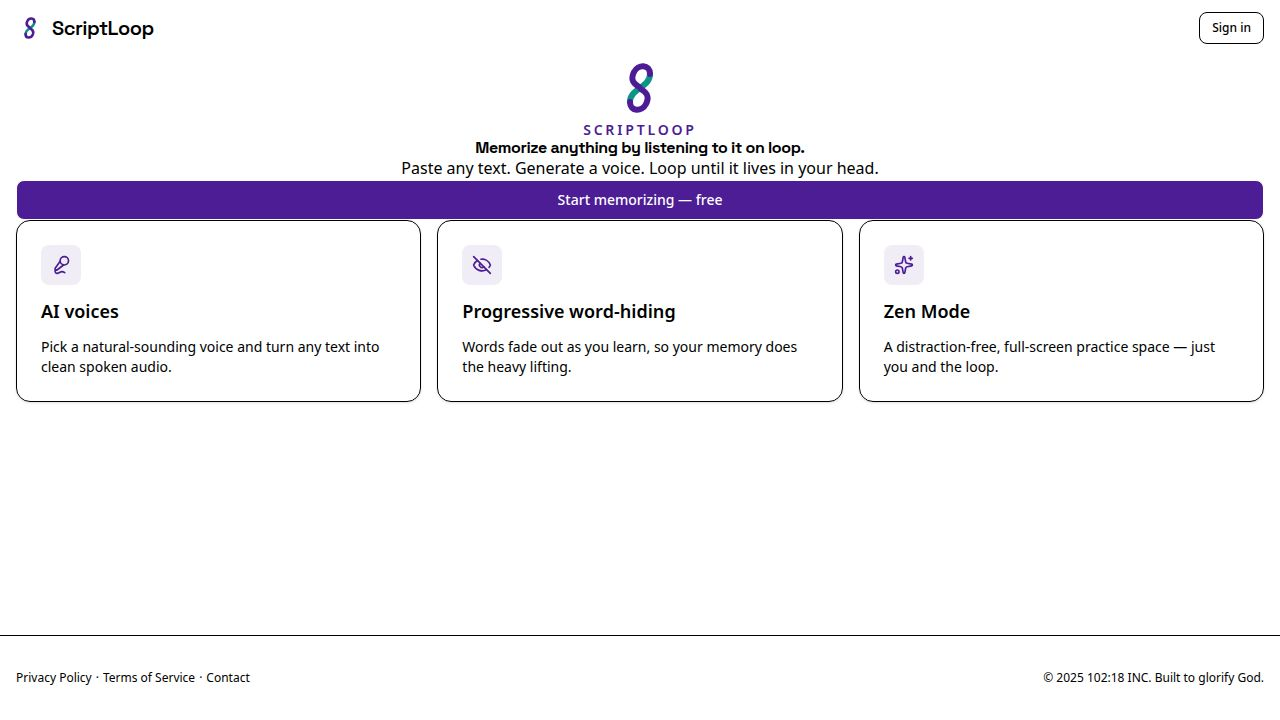
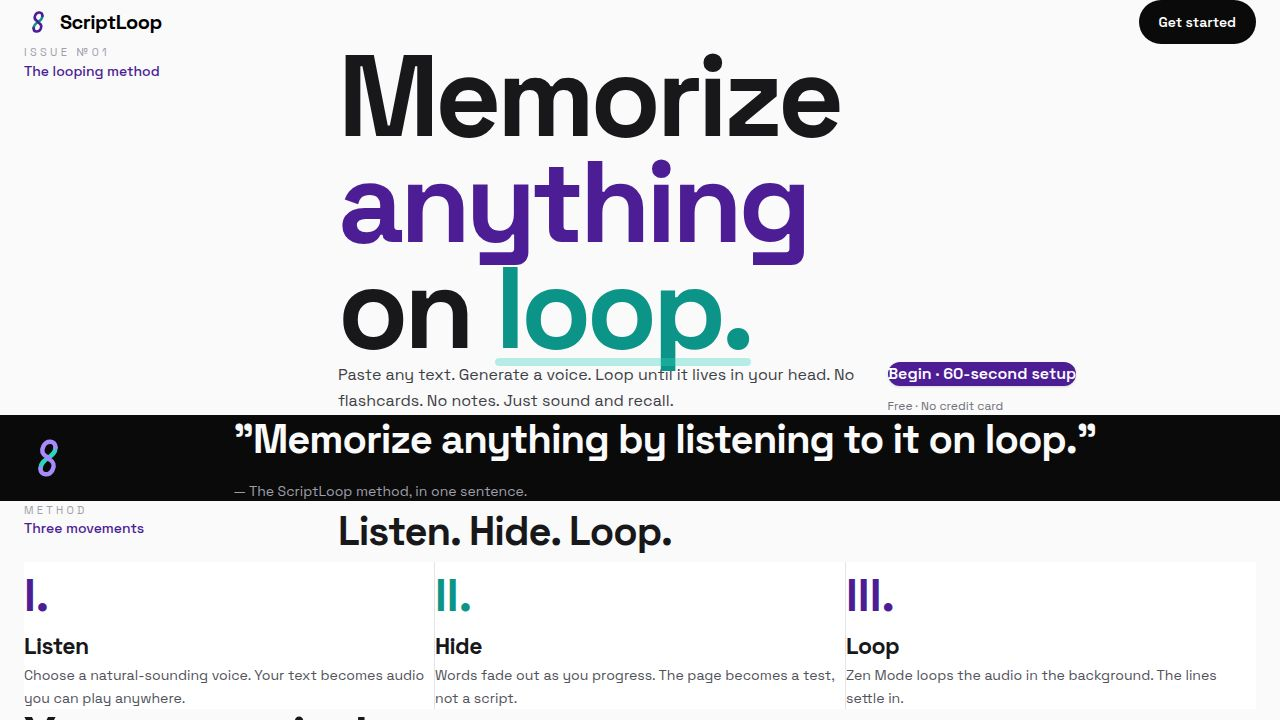
Update mockups and add new assets for improved interface presentation
Modify mockup component imports and add new image assets.

Replit-Commit-Author: Agent
Replit-Commit-Session-Id: b05ca157-8bab-4980-8663-b2cbb9ad39b6
Replit-Commit-Checkpoint-Type: full_checkpoint
Replit-Commit-Event-Id: 28ddc13a-ec4e-42e4-ab17-1a7f88cad7d2
Replit-Commit-Screenshot-Url: https://storage.googleapis.com/screenshot-production-us-central1/aa8b9d02-3ed9-4402-acee-3606e907f08d/b05ca157-8bab-4980-8663-b2cbb9ad39b6/dmYK0VX

diff --git a/artifacts/mockup-sandbox/src/.generated/mockup-components.ts b/artifacts/mockup-sandbox/src/.generated/mockup-components.ts
@@ -15,10 +15,10 @@ export const modules: ModuleMap = {
   "./components/mockups/scriptloop-logos/SlimS.tsx": () => import("../components/mockups/scriptloop-logos/SlimS.tsx"),
   "./components/mockups/scriptloop-logos/TiltedS.tsx": () => import("../components/mockups/scriptloop-logos/TiltedS.tsx"),
   "./components/mockups/scriptloop-logos/VerticalMobius.tsx": () => import("../components/mockups/scriptloop-logos/VerticalMobius.tsx"),
-  "./components/mockups/scriptloop-minimal/Dashboard.tsx": () => import("../components/mockups/scriptloop-minimal/Dashboard.tsx"),
-  "./components/mockups/scriptloop-minimal/ScriptDetail.tsx": () => import("../components/mockups/scriptloop-minimal/ScriptDetail.tsx"),
-  "./components/mockups/scriptloop-minimal/ZenMode.tsx": () => import("../components/mockups/scriptloop-minimal/ZenMode.tsx"),
   "./components/mockups/scriptloop-pro/Dashboard.tsx": () => import("../components/mockups/scriptloop-pro/Dashboard.tsx"),
   "./components/mockups/scriptloop-pro/ScriptDetail.tsx": () => import("../components/mockups/scriptloop-pro/ScriptDetail.tsx"),
-  "./components/mockups/scriptloop-pro/ZenMode.tsx": () => import("../components/mockups/scriptloop-pro/ZenMode.tsx")
+  "./components/mockups/scriptloop-pro/ZenMode.tsx": () => import("../components/mockups/scriptloop-pro/ZenMode.tsx"),
+  "./components/mockups/scriptloop-minimal/Dashboard.tsx": () => import("../components/mockups/scriptloop-minimal/Dashboard.tsx"),
+  "./components/mockups/scriptloop-minimal/ScriptDetail.tsx": () => import("../components/mockups/scriptloop-minimal/ScriptDetail.tsx"),
+  "./components/mockups/scriptloop-minimal/ZenMode.tsx": () => import("../components/mockups/scriptloop-minimal/ZenMode.tsx")
 };